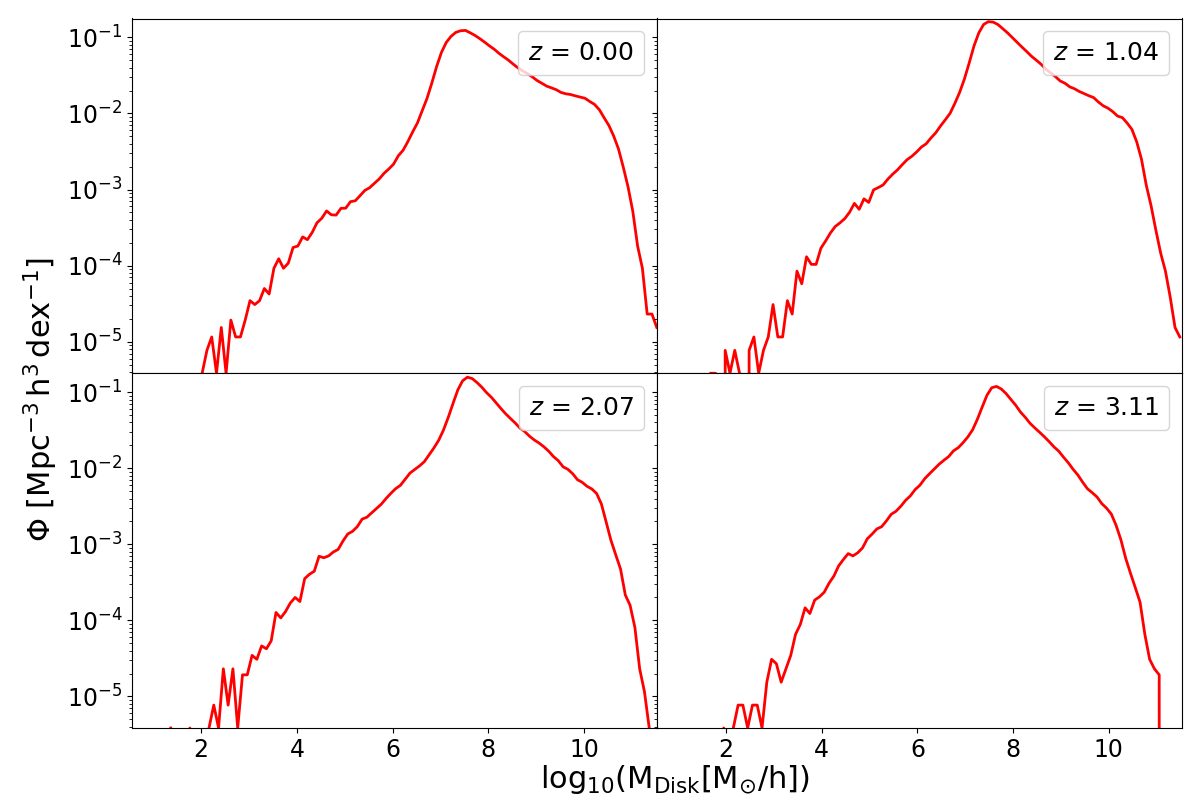
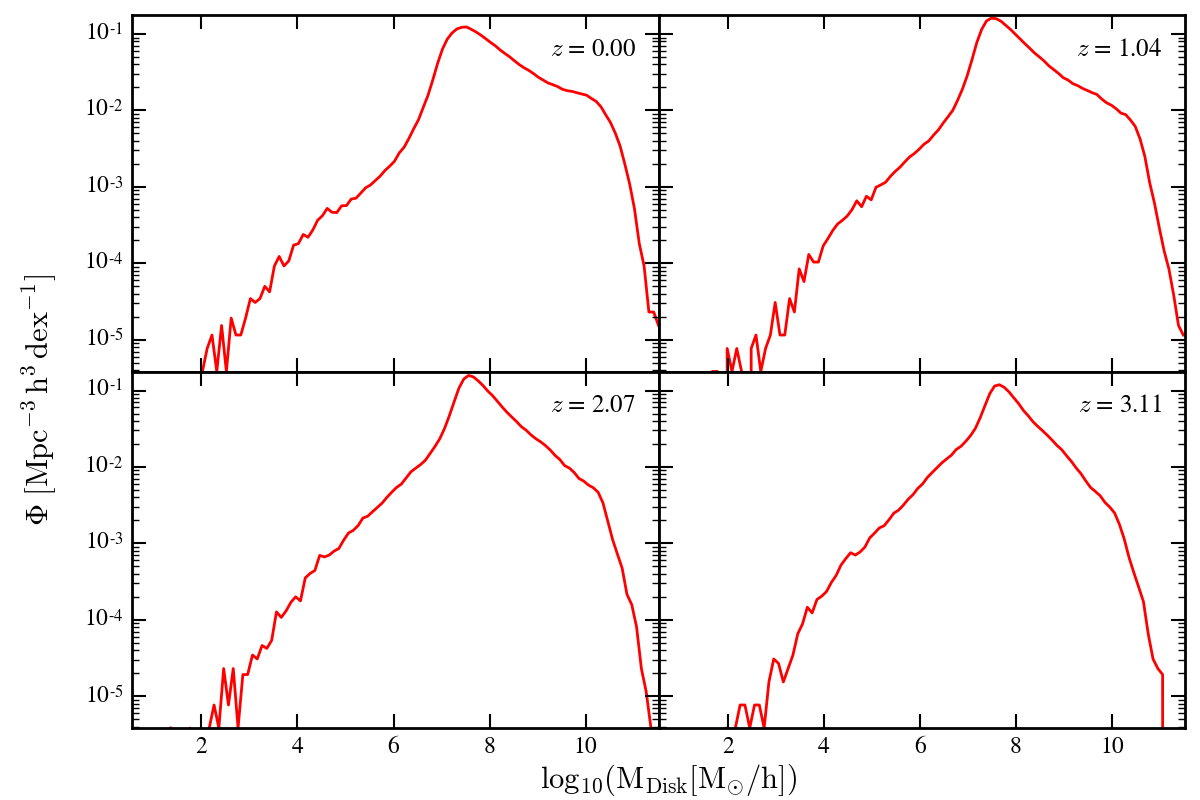
Some changes in the ylim in MoL_func and some new variables in Config.py

diff --git a/tools/Config.py b/tools/Config.py
@@ -11,20 +11,40 @@ from Useful_func import *
 #      FOLDERS and FILENAMES      #
 #                                 #
 ###################################
+Daniele = False
+David = True
 
-home = os.path.expanduser('~')+'/'              # current home folder (automatic)
-here = home + 'works/phd/dd_code/'      # folder where the code is
-LG_dir = home + 'LGalaxies/'  # LGalaxies code root folder
-LGout_dir = LG_dir + 'output/'                  # LGalaxies outputs folder
-AuxCode_dir = LG_dir + 'AuxCode/Python/'        # folder in which Bruno's useful python code is
+if(Daniele == True):
+	home = os.path.expanduser('~')+'/'              # current home folder (automatic)
+	here = home + 'works/phd/dd_code/'              # folder where the code is
+	LG_dir = home + 'LGalaxies/'                    # LGalaxies code root folder
+	LGout_dir = LG_dir + 'output/'                  # LGalaxies outputs folder
+	AuxCode_dir = LG_dir + 'AuxCode/Python/'        # folder in which Bruno's useful python code is
 
-plots_dir = here + 'plots/'                     # directory to store plots made by this code
-if not os.path.exists(plots_dir):
-	os.makedirs(plots_dir)
+	plots_dir = here + 'plots/'                     # directory to store plots made by this code
+	if not os.path.exists(plots_dir):
+		os.makedirs(plots_dir)
 
-sys.path.append(AuxCode_dir + 'Misc/')          # import read_snap and read_tree functions
-from read_lgal import *
+	sys.path.append(AuxCode_dir + 'Misc/')          # import read_snap and read_tree functions
+	from read_lgal import *
 
+
+elif(David == True):
+	home = os.path.expanduser('~')+'/'              # current home folder (automatic)
+	here = home + '/Documentos/thesis/dd_code/'     # folder where the code is
+	LG_dir = home + 'Documentos/thesis/LGalaxies/'  # LGalaxies code root folder
+	LGout_dir = LG_dir + 'output/'                  # LGalaxies outputs folder
+	AuxCode_dir = LG_dir + 'AuxCode/Python/'        # folder in which Bruno's useful python code is
+	
+	plots_dir = here + 'plots/'                     # directory to store plots made by this code
+	if not os.path.exists(plots_dir):
+		os.makedirs(plots_dir)
+
+	sys.path.append(AuxCode_dir + 'Misc/')          # import read_snap and read_tree functions
+	from read_lgal import *
+
+else:
+	print 'Error: User not found in the Config.py'
 
 #################################
 #                               #
@@ -35,9 +55,9 @@ from read_lgal import *
 GALTREE = False          # if 'True' reads galtree mode outputs and structures
 MII = False              # if 'True' MII boxsize is used (see below)
 firstfile = 0            # first file to be used in analysis/plots
-lastfile = 11            # last file to be used in analysis/plots
+lastfile = 99            # last file to be used in analysis/plots
 zlist = [0, 1, 2, 3]     # redshift list to use/plot
-wtp = [5, 3]             # properties to plot on x and y axis respectively. Available quatities are:
+wtp = [0, 1]             # properties to plot on x and y axis respectively. Available quatities are:
                          # 0:BH Mass,  1:StellarMass,  2:Mvir,  3:Sfr,  4:BulgeMass,  5:DiskMass
 
 Plotlog = True           # if 'True' log-scale plots are produced
@@ -45,7 +65,7 @@ Factor10 = [True,True]   # if 'True' uses 1.**10 units in plots (x and y axis, r
 removeh =  False         # if 'True' plotted quantities are in "h-free" units (for data comparison)
 DMap_RES = 200           # Resolution (number of bins in each axis) for density maps (optimal: 100)
 
-sizebin = 0.1
+sizebin = 0.1		 # Size bin in MoL_func when Plotlog = True; otherwise other sizebin is automatically selected 
 
 
                 
@@ -56,10 +76,15 @@ sizebin = 0.1
 #            FILENAMES            #
 #                                 #
 ###################################
-dens_ns = plots_dir + Prop(wtp[0])+'_vs_'+Prop(wtp[1])+'density_plot.png'  # density plot name
-func_ns = plots_dir + Prop(wtp[0])+'_function.png'             # luminosity/mass function plot name
+png = True                               # How to save the plots: In png (png = True) or in pdf (png = False)
+if(png == True):
+	dens_ns = plots_dir + Prop(wtp[0])+'_vs_'+Prop(wtp[1])+'density_plot.png'  # density plot name
+	func_ns = plots_dir + Prop(wtp[0])+'_function.png'             		   # luminosity/mass function plot name
+else:
+	dens_ns = plots_dir + Prop(wtp[0])+'_vs_'+Prop(wtp[1])+'density_plot.pdf'  # density plot name
+	func_ns = plots_dir + Prop(wtp[0])+'_function.pdf'             		   # luminosity/mass function plot name
 
-fileprefx = get_prefix(GALTREE, MII)     # automatic file prefix. Always call with all keywords
+fileprefx = get_prefix(GALTREE, MII)                                       # automatic file prefix. Always call with all keywords
 
 
 

diff --git a/tools/Plot_functions.py b/tools/Plot_functions.py
@@ -208,12 +208,10 @@ def MoL_func():
                 
                 axarr[row[i],col[i]].plot(pp_c,phi,color='red', linewidth=2, label = '$z$ = ' + zdict(i))
                 axarr[row[i],col[i]].set_yscale('log')
-                #axarr[row[i],col[i]].set_ylim(MoL_func_ylim)
+
 		leg = axarr[row[i],col[i]].legend(loc = 'upper right',fontsize = 18, handlelength=0, handletextpad=0, fancybox=True)
                 for item in leg.legendHandles:
                         item.set_visible(False)		
-
-		#axarr[row[i],col[i]].set_xlim(MoL_func_xlim)
 
                 if(row[i] == 0):
                         axarr[row[i],col[i]].set_xticklabels([''])
@@ -221,12 +219,15 @@ def MoL_func():
                         axarr[row[i],col[i]].set_yticklabels([''])
 
 	for i in zlist:
-		axarr[row[i],col[i]].set_ylim(min(minimY)*0.9, max(maximY)*1.1)
+		axarr[row[i],col[i]].set_ylim(0.9*min(minimY), 1.1*max(maximY))
                 axarr[row[i],col[i]].set_xlim(min(minimX),max(maximX))
 
 	f.canvas.draw()
+        labels = [item.get_text() for item in axarr[1,0].get_xticklabels()]
+        labels[-1] = ' '
+        axarr[1,0].set_xticklabels(labels)
         labels = [item.get_text() for item in axarr[0,0].get_yticklabels()]
-        labels[1] = ' '
+        labels[-1] = ' '
         axarr[0,0].set_yticklabels(labels)
 
         fig = plt.tight_layout()

diff --git a/prueba.py b/prueba.py
@@ -1,6 +1,6 @@
 import tools
 from tools.Config import *
 
-#tools.PvsP_densityplot()
+tools.PvsP_densityplot()
 
 tools.MoL_func()
